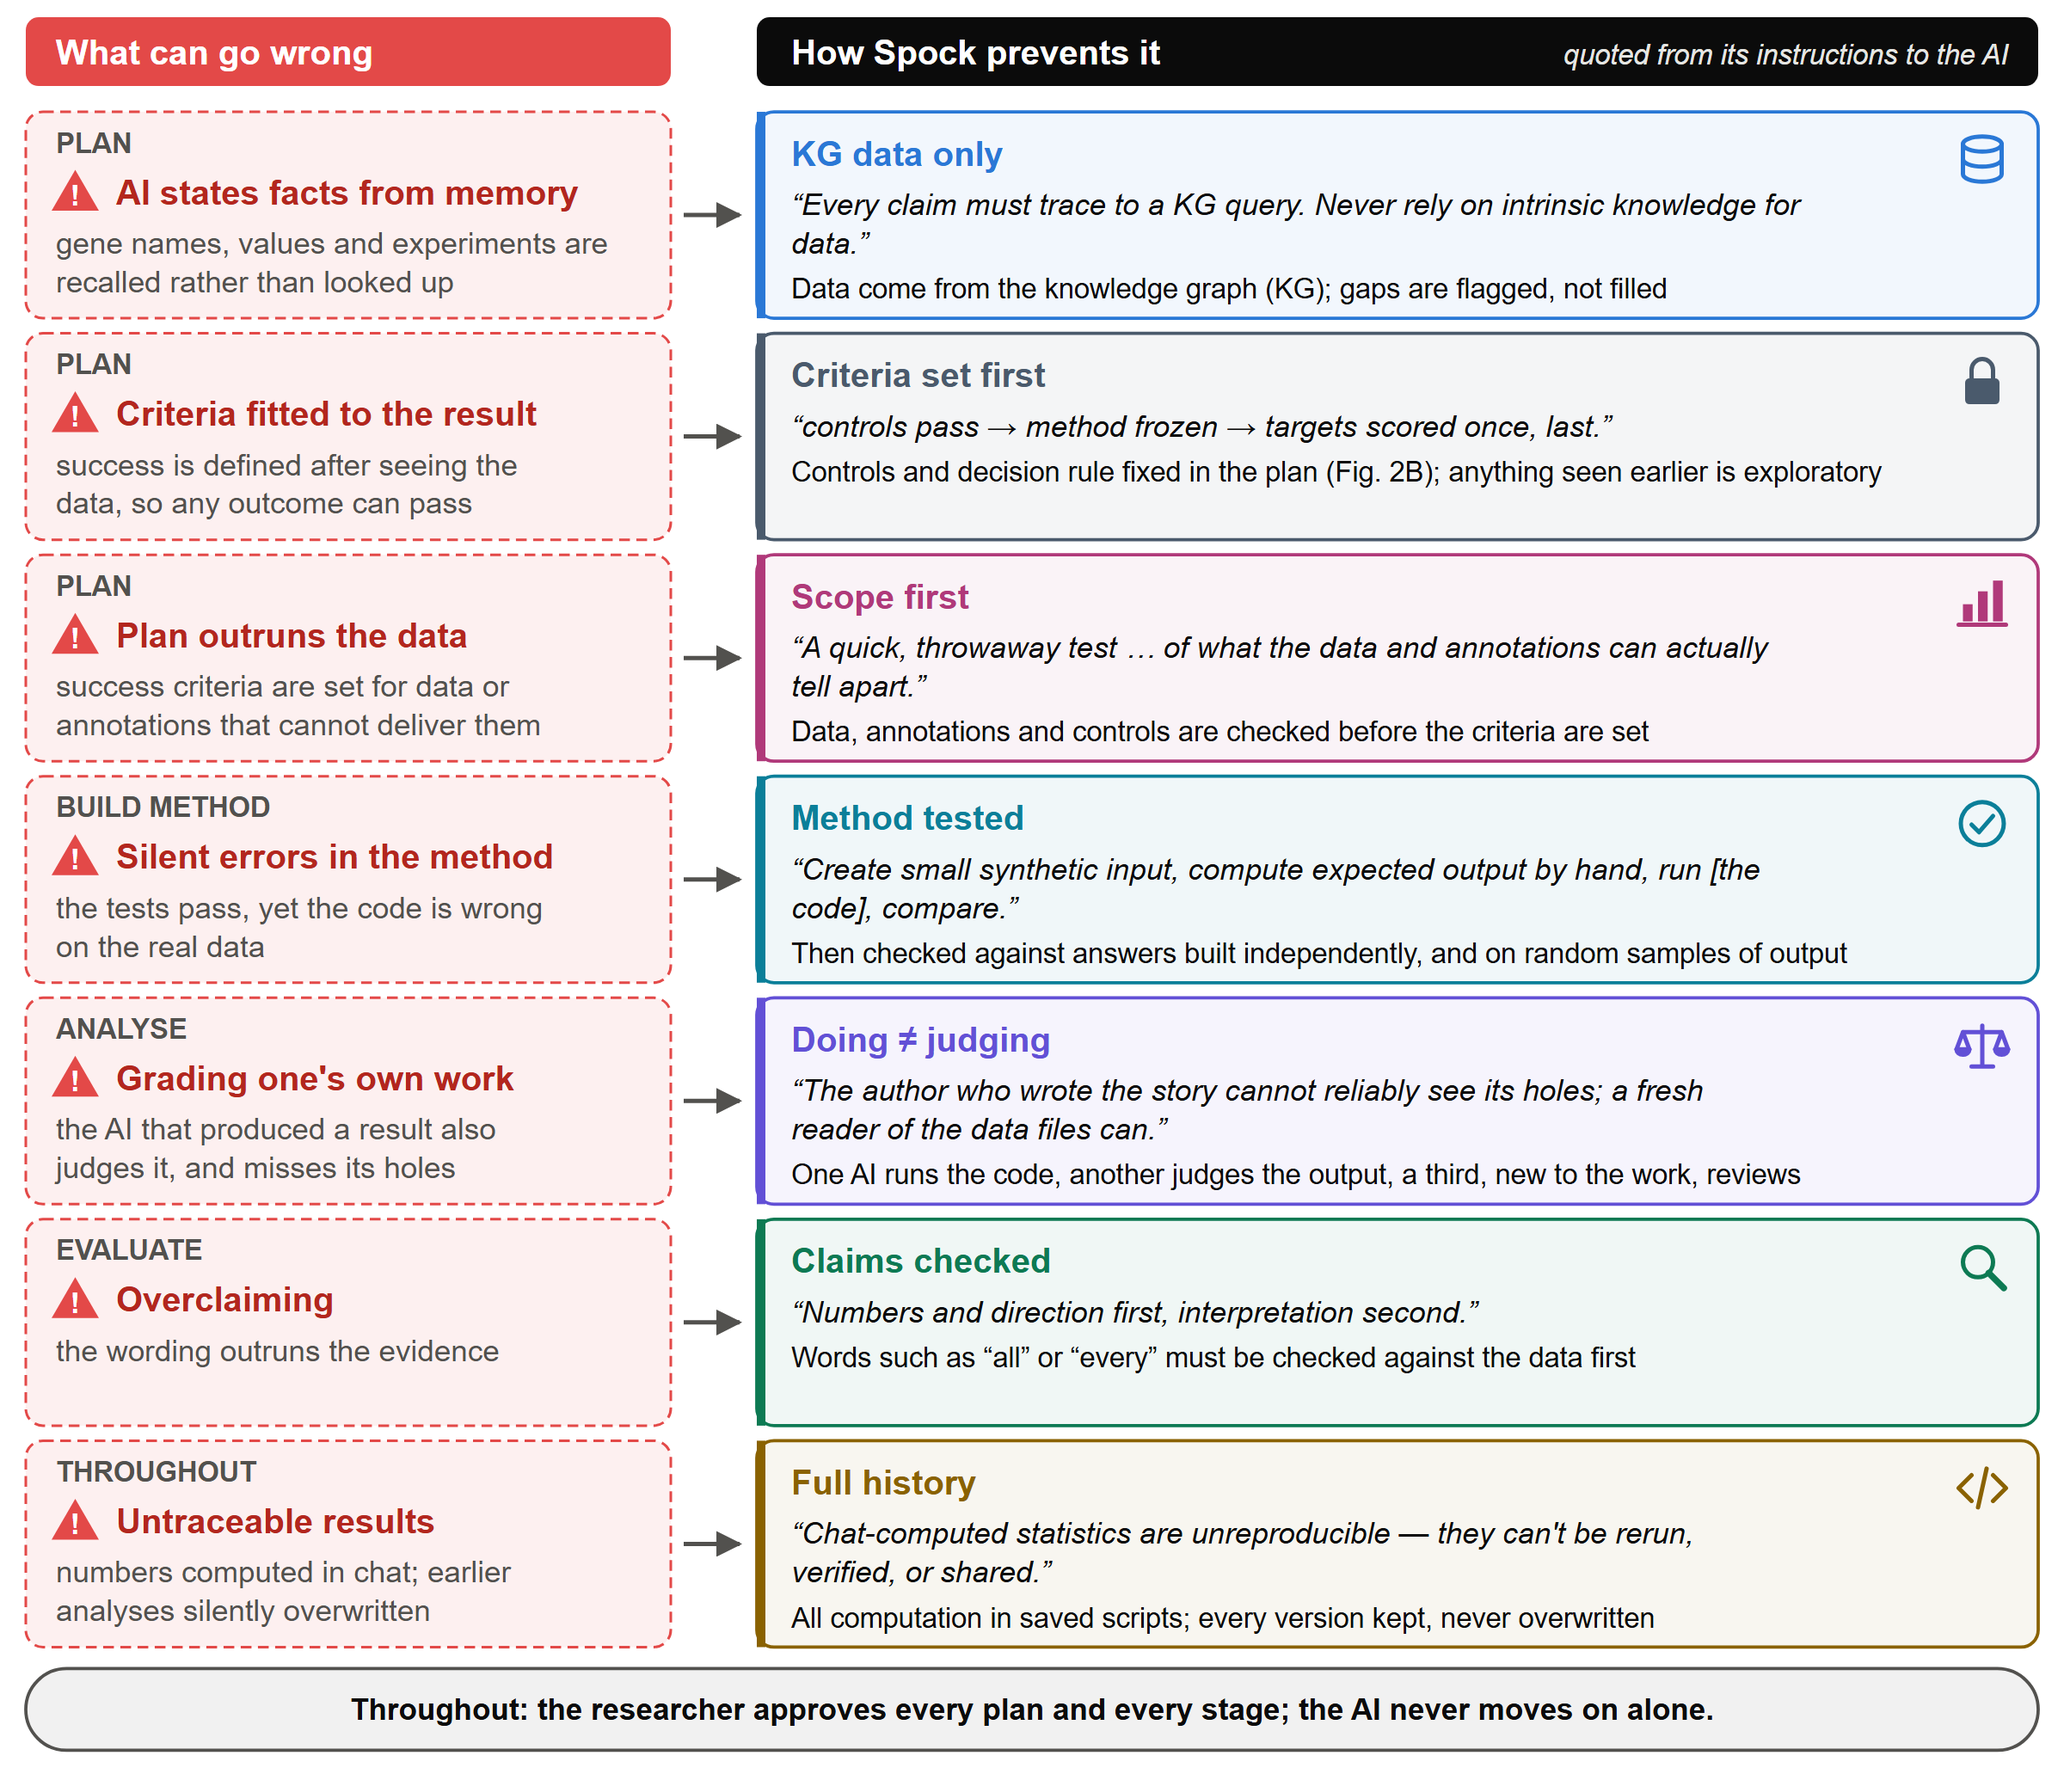
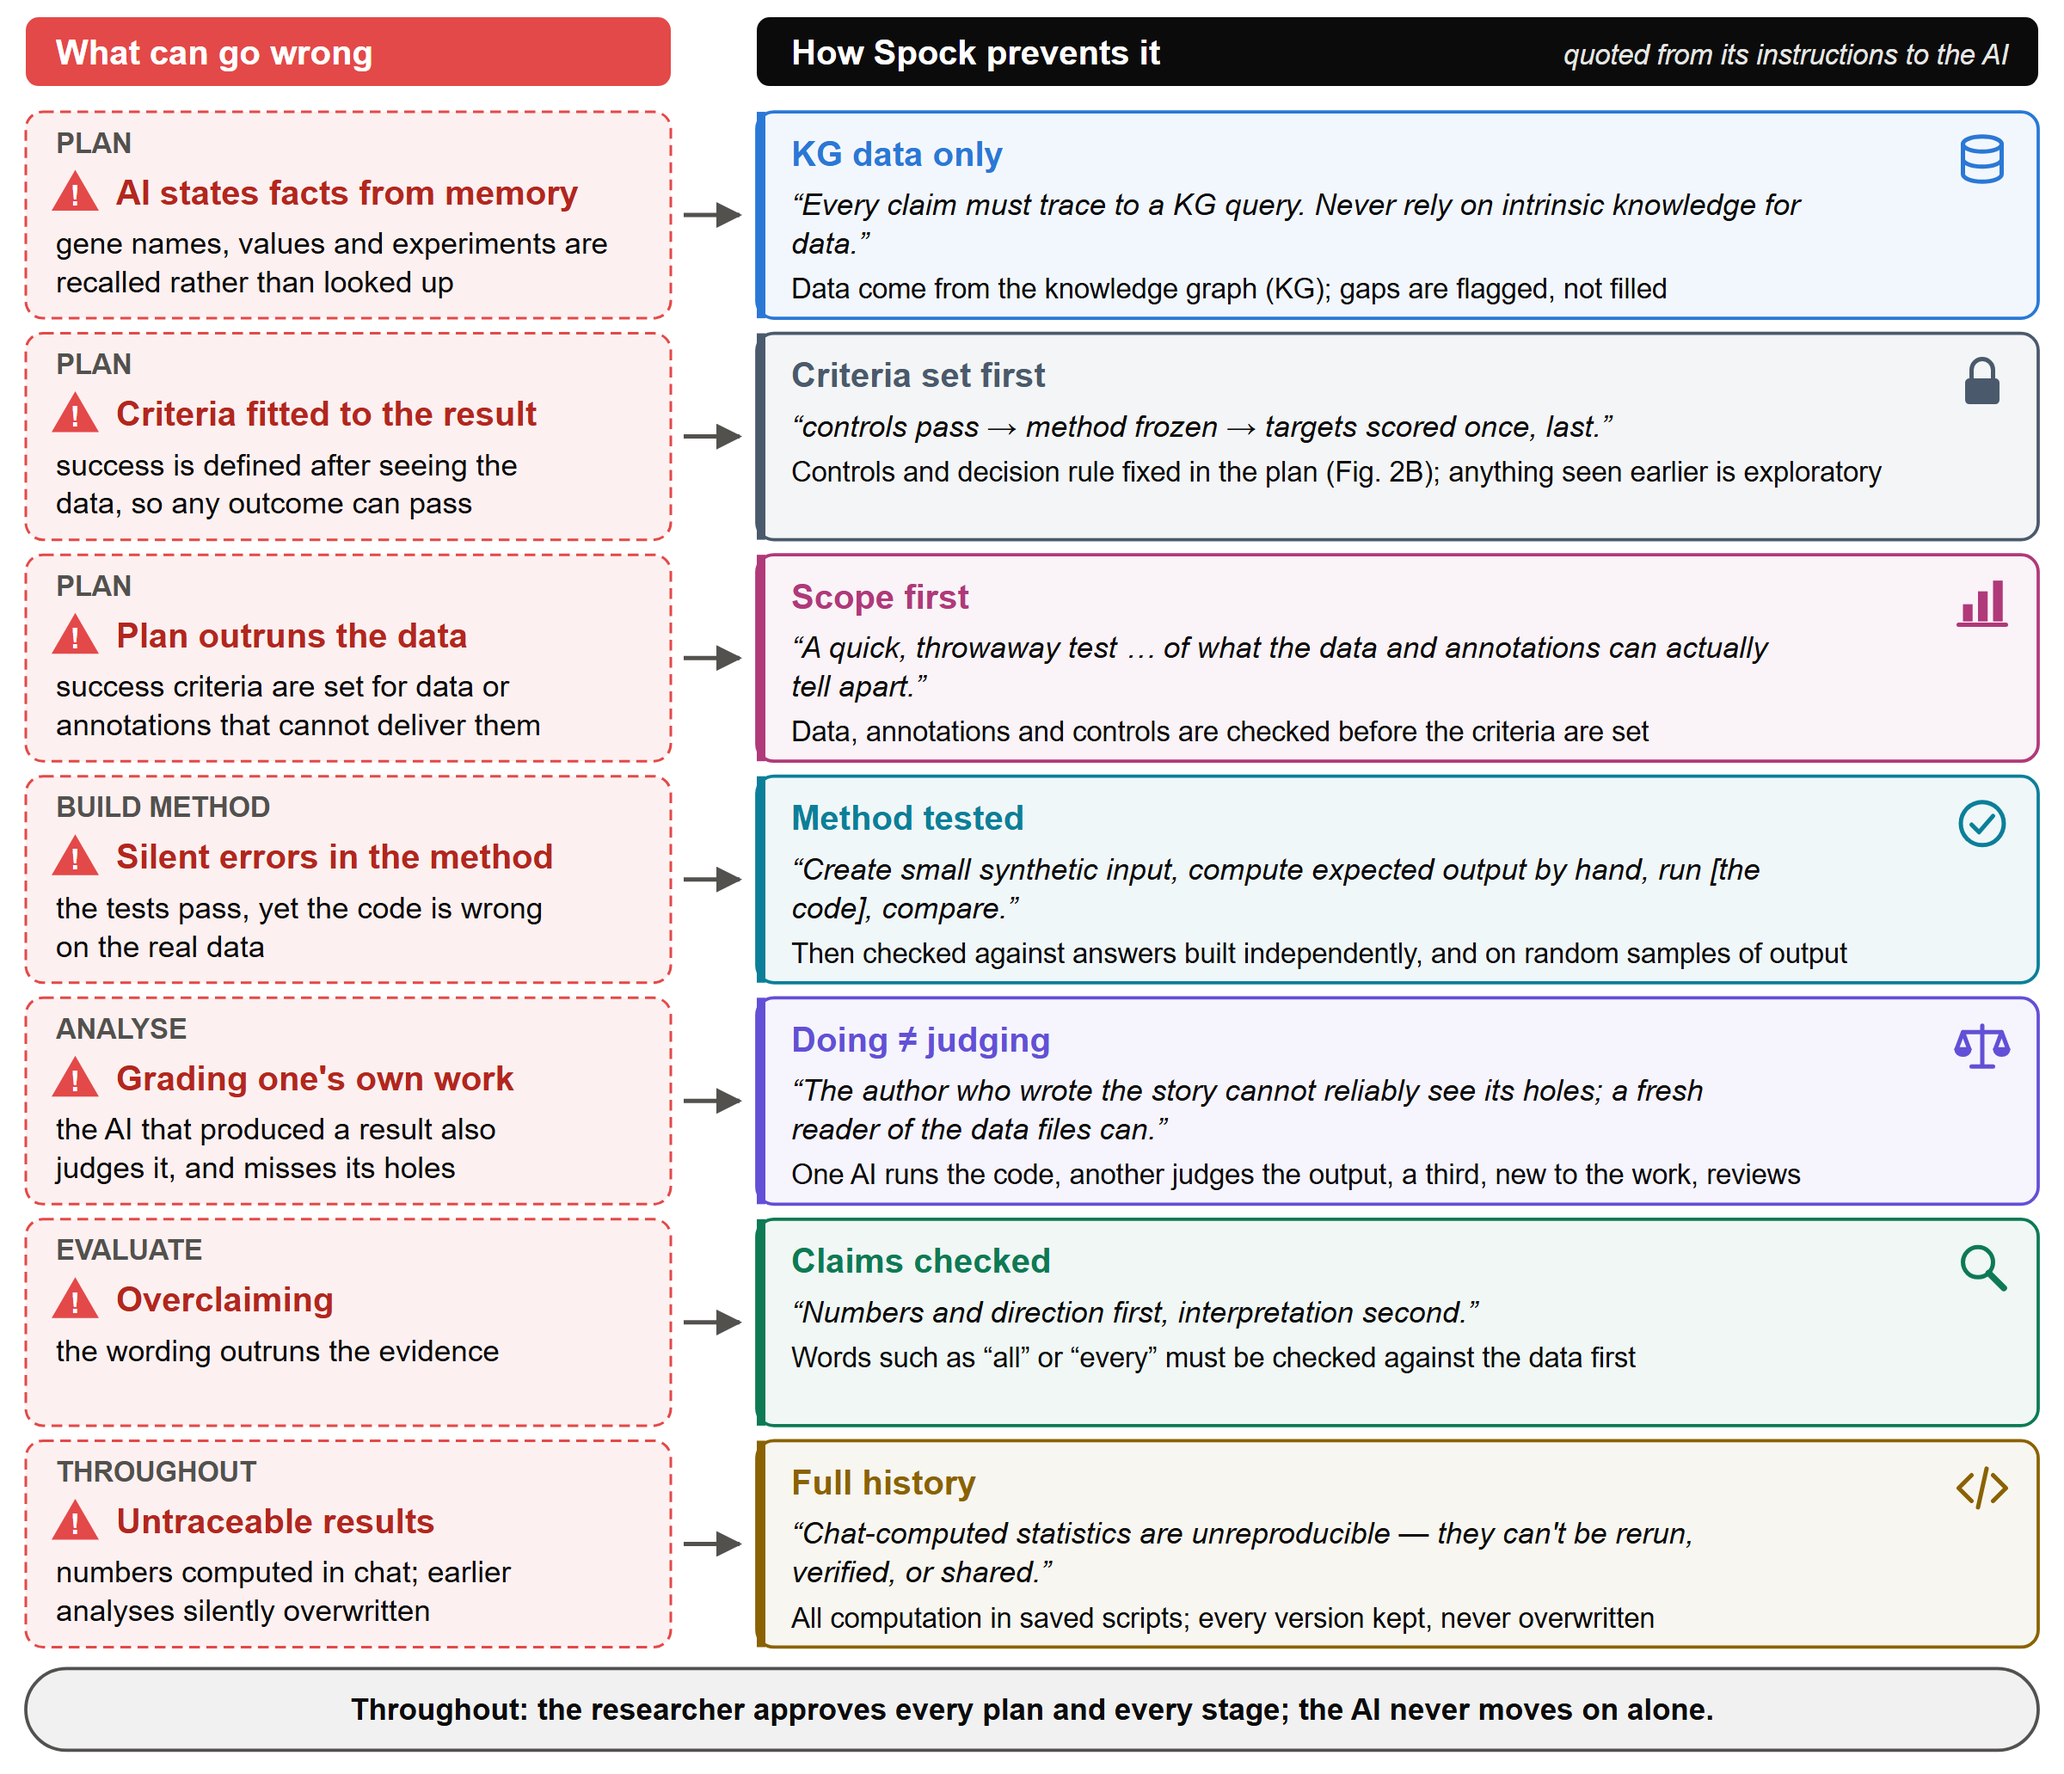
Fig 1e: left-column descriptions in black

diff --git a/docs/paper graphics/make_figures.py b/docs/paper graphics/make_figures.py
@@ -420,7 +420,7 @@ def figure1e():
         s.text(xr + 14, y + 19, stage, size=13, weight="bold", fill=INK2)
         warn_icon(s, xr + 12, y + 27)
         s.text(xr + 42, y + 43, prob, size=16, weight="bold", fill=RED_TXT)
-        s.para(xr + 14, y + 66, gloss, wr - 26, size=14, fill=INK2)
+        s.para(xr + 14, y + 66, gloss, wr - 26, size=14, fill=INK)
 
         s.arrow([(xr + wr + 6, y + rh / 2), (xc - 8, y + rh / 2)], INK2, sw=2)
 
